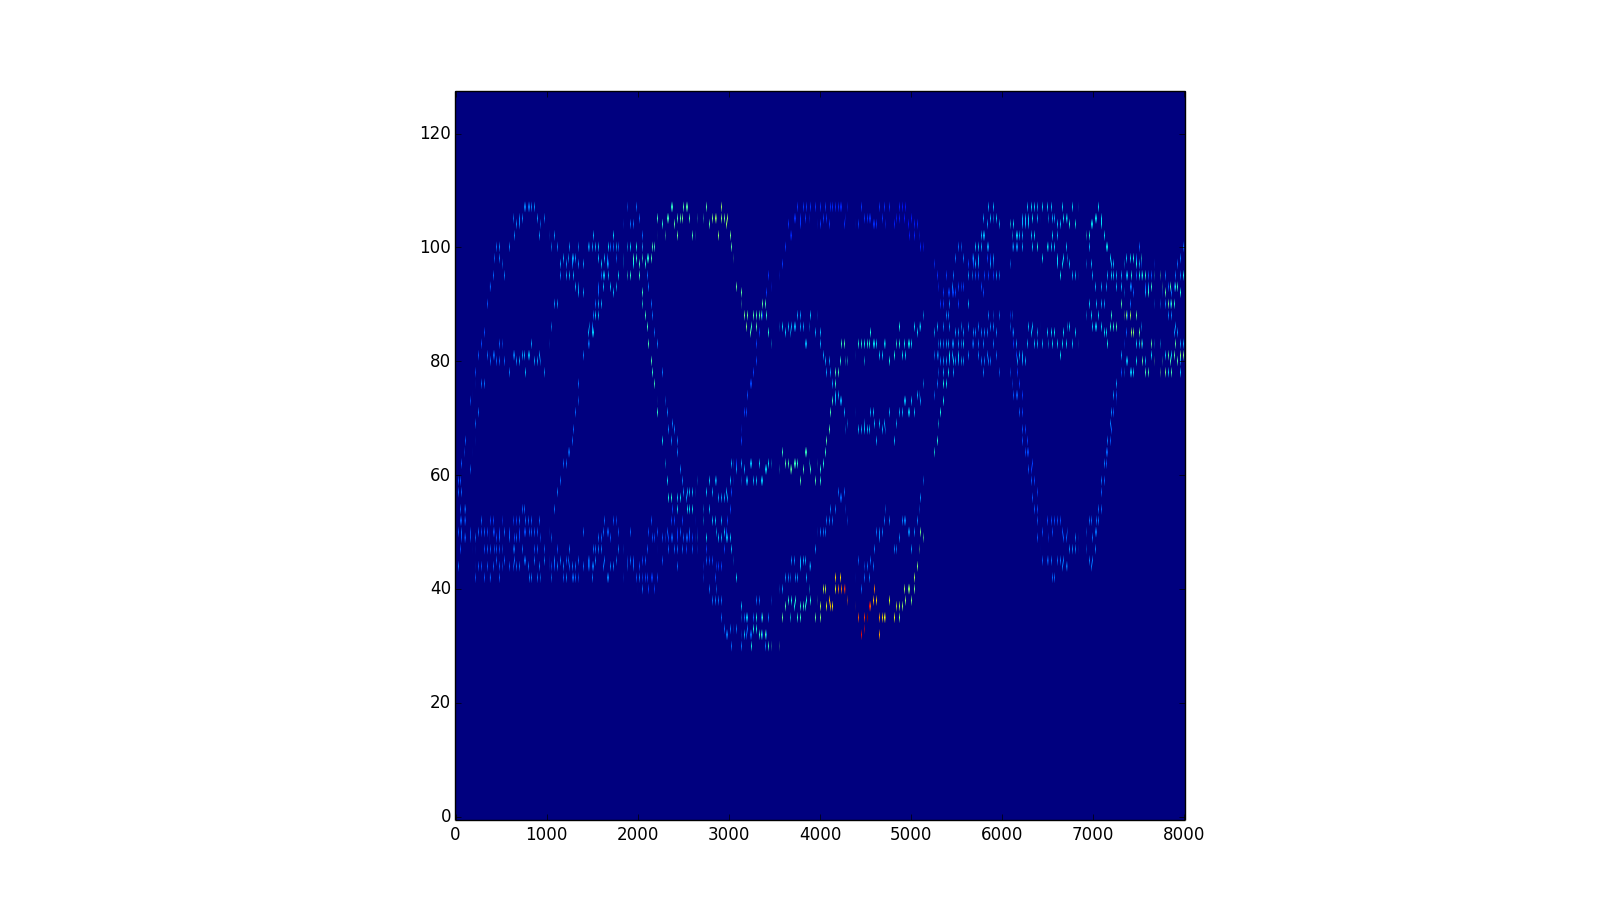
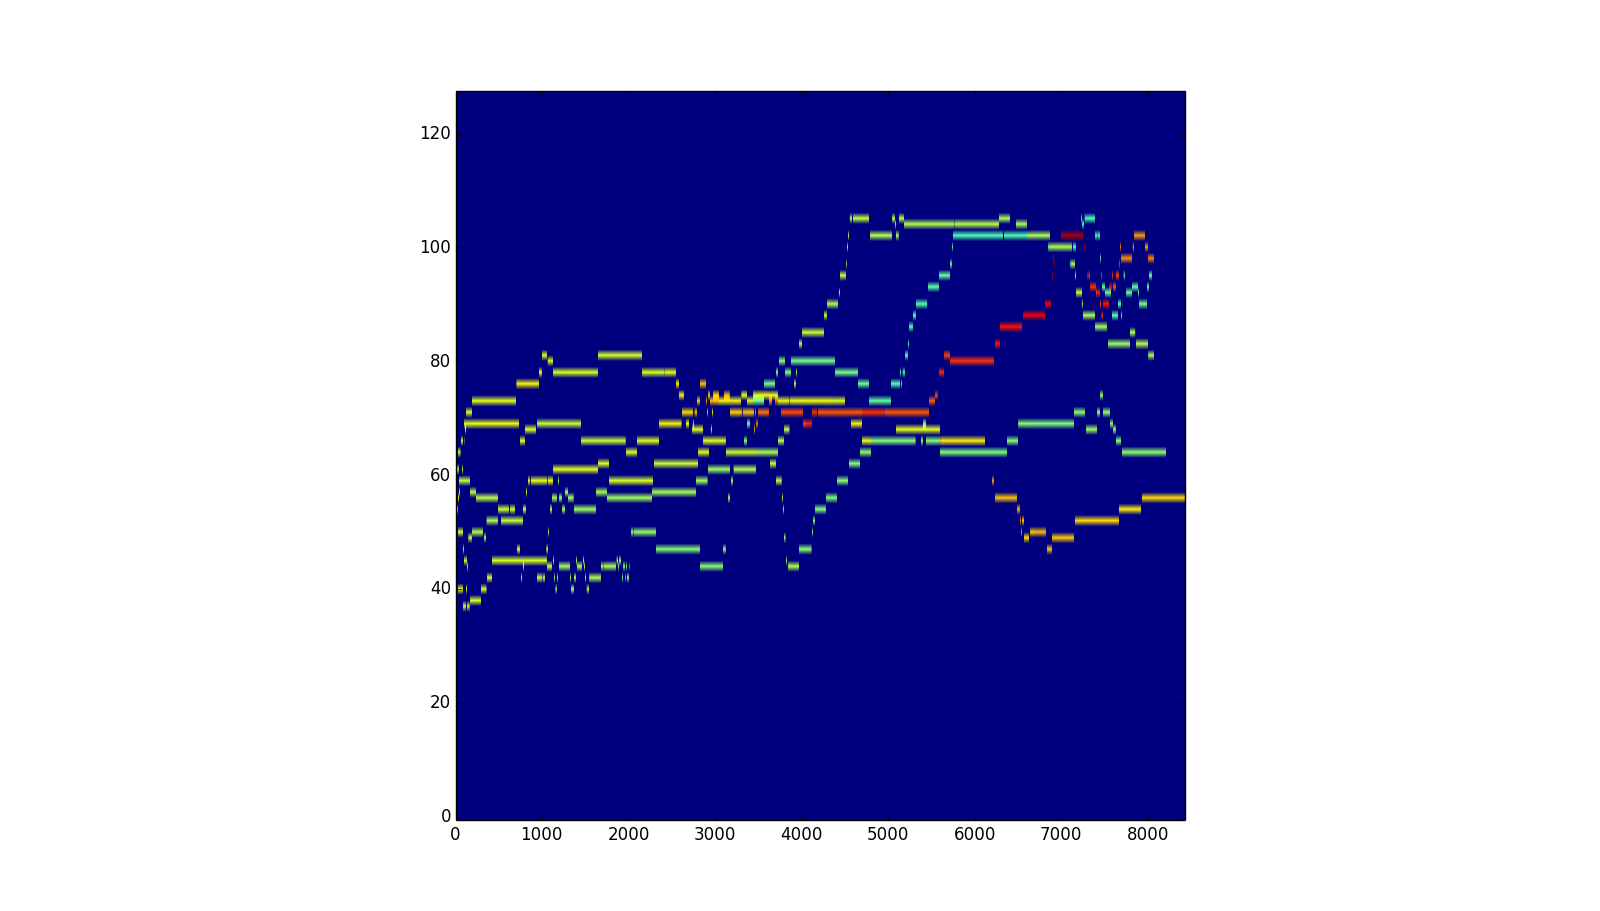
Add proper time management

diff --git a/walkers/finger.py b/walkers/finger.py
@@ -6,7 +6,11 @@ class Finger(object):
     """ Abstracts a separate human finger's piano abilities """
     def __init__(self):
         """ yo """
+        # Init note container
         self.notes = []
+
+        # Start with a note
+        self.ticks_left = 0
 
     def clear(self):
         """ Remove all previously played notes """
@@ -29,19 +33,25 @@ class Finger(object):
 
     def make_note(self, timetick):
         """ Generates a new note played by this finger """
-        # TODO consider expressing time in ticks (int)
         note_start  = timetick
         # All of those must be implemented
         pitch       = self.next_pitch(timetick)
         duration    = self.next_duration(timetick)
         volume      = self.next_volume(timetick)
 
+        # Create note
         self.notes.append([pitch, note_start, duration, volume])
+
+        # Reset cunter
+        self.ticks_left = duration
 
     def is_it_now(self, timetick):
         """ Rhytm depends on this function """
-        # TODO this is fake
-        return np.random.random() > 0.5
+        if self.ticks_left is 0:
+            return True
+        else:
+            self.ticks_left -= 1
+            return False
 
     def next_pitch(self, timetick):
         """ Choose note """
@@ -95,24 +105,17 @@ class MerwFinger(Finger):
         Finger.__init__(self)
         # Init merwish walkers
         # TODO Make volume walker
-        self.volume_walker  = wm.BiasedWalker(range(128), 80)
+        first_vol           = 80
+        self.volume_walker  = wm.VolumeWalker(first_vol)
         # FIXME some id-value fuckup
         self.pitch_walker   = wm.PitchWalker(first_picz)
         # TODO This has to be some more complex creature
-        # self.time_walker    = wm.TimeWalker()
+        self.time_walker = wm.TimeWalker(4)
 
     def next_duration(self, timetick):
         """ Note length (value) in ticks """
-        # dur = self.time_walker.next_value()
-        # duration_merw.set_potentials(timetick)
-        # return duration_merw.get_next()
-        return 4
-
-    def is_it_now(self, timetick):
-        """ merw way of the rhythm """
-        # itis = self.time_walker.play_now(timetick)
-        itis = timetick % 16 is 0 or timetick % 27 is 0
-        return itis
+        dur = self.time_walker.next_value()
+        return dur
 
     def next_pitch(self, timetick):
         """ melody """

diff --git a/walkers/merw.py b/walkers/merw.py
@@ -27,7 +27,6 @@ class Merwer(object):
 
         # Initialize probability matrices
         self.make_S()
-
         # FIXME those are not defects!
         # Prepare merw 'defects' (no defects by default)
         # self.interaction_grid = np.ones_like(self.values)
@@ -197,17 +196,8 @@ class TimeWalker(BiasedWalker):
         """ nope """
         # Possible note values are always powers of 2
         # This is in ticks unit
-        values = [2**it for it in range(8)]
-
-        # Count ticks to the next hit
-        self.ticks_left = 0
+        values = [2**it for it in range(9)]
 
         # Init parent
         BiasedWalker.__init__(self, values, first_id)
 
-    def is_it_now(self):
-        """ wat """
-        if self.ticks_left is 0:
-            return True
-        else:
-            self.ticks_left -= 1
